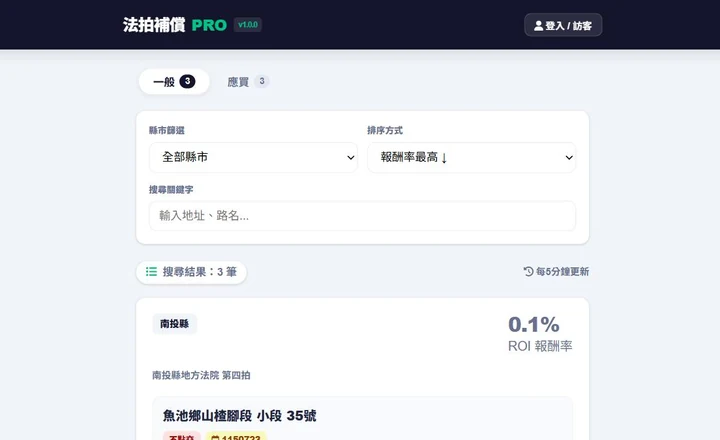
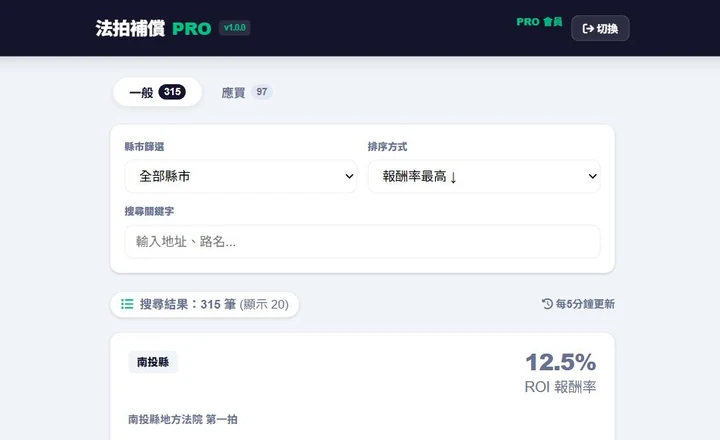
卡片文案改寫：去除重複用語，補上可查證的具體事實
原本 9 張卡片有 4 張以「一條龍」收尾，全頁共 6 處，讀來像罐頭。
改為描述實際做到的事，數字一律取自各站可驗證的內容（信用評分的
四維權重 35/25/20/10、法拍每 5 分鐘更新、學術展覽七個展區等），
未使用任何無法查證的成效宣稱。

員工福利商店原本寫「34 家特約商店」，該平台仍在擴充，數字反而
顯得規模小，改為描述四種身分的推薦審核流程（依其 Firestore
規則實際結構）。

法拍補償截圖改為登入後的 315 筆在管標的；擷取時以 DOM 暫時隱藏
頁首 email，拍完即還原，圖檔不含個人資訊。

diff --git a/index.html b/index.html
@@ -6,7 +6,7 @@
 <title>Wind · AI 驅動的全端工程師 — 網站 / App / API / 自動化</title>
 <meta name="description" content="AI 驅動的全端工程師,從網站、App、API 到自動化都能交付。">
 <meta property="og:title" content="Wind · AI 驅動的全端工程師">
-<meta property="og:description" content="有需求,就能交付可上線的成品。網站 / App / API / 自動化,一條龍搞定。">
+<meta property="og:description" content="9 件已上線作品：品牌官網、電商 POS、LINE AI 生態系、財務分析工具。網站 / App / API / 自動化都能交付。">
 <meta property="og:type" content="website">
 <meta property="og:url" content="https://rock903400-byte.github.io/wind/">
 <meta property="og:image" content="https://rock903400-byte.github.io/wind/assets/og-cover.jpg">
@@ -161,7 +161,7 @@ footer{text-align:center;padding:32px 20px;color:var(--dim);font-size:.78rem;bor
       <div class="work-info">
         <div class="tag-row"><span class="tag">品牌形象</span><span class="tag green">已上線</span></div>
         <h3>陶茶雅舍</h3>
-        <p class="desc">台南 30 年茶藝職人品牌網站，從形象塑造到線上報名表單，一條龍完成。</p>
+        <p class="desc">台南 30 年手捏壺職人的品牌官網，課程介紹、作品賞析到線上報名收攏在同一頁。</p>
         <a class="btn-demo" href="https://rock903400-byte.github.io/tao-tea-house/" target="_blank" rel="noopener">查看 Demo</a>
       </div>
     </div>
@@ -174,7 +174,7 @@ footer{text-align:center;padding:32px 20px;color:var(--dim);font-size:.78rem;bor
       <div class="work-info">
         <div class="tag-row"><span class="tag">電商・POS</span><span class="tag green">已上線</span></div>
         <h3>MONO CLASSICS</h3>
-        <p class="desc">品牌電商 + 庫存管理 + POS 結帳 + 規格對比，完整銷售一條龍。</p>
+        <p class="desc">古董相機商的三合一後台：藏品庫存、POS 結帳、規格對比共用同一套資料。</p>
         <a class="btn-demo" href="https://rock903400-byte.github.io/mono-classics-demo/demo/demo.html" target="_blank" rel="noopener">查看 Demo</a>
       </div>
     </div>
@@ -200,7 +200,7 @@ footer{text-align:center;padding:32px 20px;color:var(--dim);font-size:.78rem;bor
       <div class="work-info">
         <div class="tag-row"><span class="tag rose">金融・工具</span><span class="tag green">已上線</span></div>
         <h3>信用評分系統</h3>
-        <p class="desc">5P 審查模型 × 多維度評分，自動產生正式授信審查報告書。</p>
+        <p class="desc">還款能力、擔保、信用等四維加權評分（35/25/20/10），輸入即產出可送審的報告書。</p>
         <a class="btn-demo" href="https://rock903400-byte.github.io/credit-score-system/" target="_blank" rel="noopener">查看 Demo</a>
       </div>
     </div>
@@ -213,7 +213,7 @@ footer{text-align:center;padding:32px 20px;color:var(--dim);font-size:.78rem;bor
       <div class="work-info">
         <div class="tag-row"><span class="tag amber">App・AI</span><span class="tag green">已上線</span></div>
         <h3>FitLog AI</h3>
-        <p class="desc">AI 拍照辨識熱量 + 雲端飲食紀錄 + TDEE 智慧計算，健康管理一條龍。</p>
+        <p class="desc">拍一張照就記下熱量，依 TDEE 換算當日剩餘額度，飲食歷程雲端同步。</p>
         <a class="btn-demo" href="https://rock903400-byte.github.io/FitLog-AI/" target="_blank" rel="noopener">查看 Demo</a>
       </div>
     </div>
@@ -226,7 +226,7 @@ footer{text-align:center;padding:32px 20px;color:var(--dim);font-size:.78rem;bor
       <div class="work-info">
         <div class="tag-row"><span class="tag">試算工具</span><span class="tag green">已上線</span></div>
         <h3>法拍補償試算</h3>
-        <p class="desc">即時監控法拍案件，精準計算補償權益與投報率，數據視覺化呈現。</p>
+        <p class="desc">每 5 分鐘同步全台法拍公告，三百餘筆在管標的自動算出 ROI 並依報酬率排序。</p>
         <a class="btn-demo" href="https://rock903400-byte.github.io/foreclosure-compensation-analyzer/" target="_blank" rel="noopener">查看 Demo</a>
       </div>
     </div>
@@ -239,7 +239,7 @@ footer{text-align:center;padding:32px 20px;color:var(--dim);font-size:.78rem;bor
       <div class="work-info">
         <div class="tag-row"><span class="tag">展覽・策展</span><span class="tag green">已上線</span></div>
         <h3>學術展覽互動網站</h3>
-        <p class="desc">策展級視覺敘事，深色模式、捲動動效、無障礙設計一次到位，把學術內容講成故事。</p>
+        <p class="desc">七個展區串成線上策展動線，深色模式與捲動敘事，把研究內容講成看得完的故事。</p>
         <a class="btn-demo" href="https://rock903400-byte.github.io/academic-exhibition-demo/" target="_blank" rel="noopener">查看 Demo</a>
       </div>
     </div>
@@ -253,7 +253,7 @@ footer{text-align:center;padding:32px 20px;color:var(--dim);font-size:.78rem;bor
       <div class="work-info">
         <div class="tag-row"><span class="tag amber">App・PWA</span><span class="tag green">已上線</span></div>
         <h3>員工福利商店 App</h3>
-        <p class="desc">React + TypeScript 打造的離線可用 PWA，地圖找店、會員驗證、商家推薦審核一條龍。</p>
+        <p class="desc">離線可用的 React + TS PWA：地圖即時找店、社員身分驗證，商家推薦經幹部與超管兩級審核。</p>
         <a class="btn-demo" href="https://special-stores-app-52e1c.web.app" target="_blank" rel="noopener">查看 Demo</a>
       </div>
     </div>
@@ -266,7 +266,7 @@ footer{text-align:center;padding:32px 20px;color:var(--dim);font-size:.78rem;bor
       <div class="work-info">
         <div class="tag-row"><span class="tag rose">資料・AI</span><span class="tag green">已上線</span></div>
         <h3>AI 財務分析報告產生器</h3>
-        <p class="desc">上傳報表自動完成指標計算、體質分類與圖表繪製，一鍵產出可交付的分析報告。</p>
+        <p class="desc">上傳兩份報表，四維評分分出穩健／閒置／緊繃等五種體質，產出含互動圖表的分析報告。</p>
         <a class="btn-demo" href="https://wind-report-generator-demo.streamlit.app/" target="_blank" rel="noopener">查看 Demo</a>
       </div>
     </div>
@@ -320,7 +320,7 @@ footer{text-align:center;padding:32px 20px;color:var(--dim);font-size:.78rem;bor
 <section id="services">
 <div class="wrap">
   <h2 class="sec-title reveal">我能做什麼</h2>
-  <p class="sec-sub reveal">從零到一，從網站到系統，一條龍交付</p>
+  <p class="sec-sub reveal">從零到一，從一頁式網站到跨系統整合</p>
   <div class="svc-wrap reveal">
     <span class="svc-pill">🌐 形象網站</span>
     <span class="svc-pill">🛒 電商系統</span>